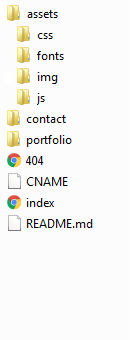
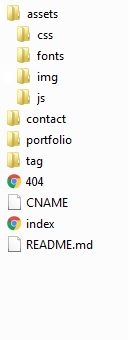
Completed Portfolio webpage writeup (for now)
(For now, eventually have to come up with an ending image but not sure
what to do for now)

Removed some old files.

Changed region(s): [[0.0308, 0.4412, 0.7385, 0.7647], [0.1538, 0.7059, 0.7385, 0.7353]]

diff --git a/_portfolio/portfolio-webpage.html b/_portfolio/portfolio-webpage.html
@@ -22,11 +22,13 @@ abstract: "This projected aimed at creating a responsive webpage which hosts inf
 	<li>Project write-up pages which detail the purpose and process
 	<li>Allow reader to get a professional but personal feel for who I am
 	<li>Improve upon the file system I used in a previous trial-run project
-</ul>"
+</ul>
+
+Before beginning this project, I had no experience with SASS, Jekyll, and Liquid; however, each were heavily utilized throughout the webpage and now I feel great confidence using each of these."
 
 end: | 
  I feel immensely proud of the outcome for this project. The webpage is sleek and quick, while being fully responsive. The file system which Jekyll enables was perfect for this project and will allow for easy additions and modifications in the future. <br><br>
- One thing I’d do for my next project is use something like SAMPLE - where you can create a job and tasks and overall keep track of progress. While I wasn’t having problems implementing every design aspect, it would have been nice to have a place which tracks all of my progress, bugs, and list what I am to do next. With a larger project, a simple "to do" word document will not be enough.<br><br>
+ One thing I’d do for my next project is use something like SAMPLE - where you can create a job and tasks and overall keep track of progress. While I wasn’t having problems implementing every design aspect, it would have been nice to have a place which tracks all of my progress, bugs, and list what I am to do next. With a larger project, a simple to-do word document will not be sufficient.<br><br>
  <a href="https://github.com/schlesigerjess/JessicaSchlesiger.github.io" alt="{{ link.icon }}" target="_blank" rel="noopener"><b class="icon-github"></b> See project at Github.</a>
 
 
@@ -40,8 +42,7 @@ In addition, I set out to improve upon the mistakes previously made. The most pr
 "Jekyll is a simple, blog-aware, static site generator perfect for personal, project, or organization sites. Think of it like a file-based CMS, without all the complexity. Jekyll takes your content, renders Markdown and Liquid templates, and spits out a complete, static website ready to be served by Apache, Nginx or another web server. Jekyll is the engine behind GitHub Pages, which you can use to host sites right from your GitHub repositories"
 </div><br>
 
-<p>It took a couple of days of hammering through examples and trial-and-error processes, but by the end I had a comprehensive understanding of the file system, variables, imports, and site generation. This system is fantastic and enabled this webpage's file system to be less manual and better organized.<br><br></p>
-	
+<p>It took a couple of days of hammering through examples and trial-and-error processes, but by the end I had a comprehensive understanding of the file system, variables, imports, and site generation. This system is fantastic and enabled this webpage's file system to be less manual and better organized.</p>
 
 <div class="img-wrap full">
 	<div class="img-center">
@@ -54,6 +55,42 @@ In addition, I set out to improve upon the mistakes previously made. The most pr
 	
 Before coding anything, a well thought-out design must be in place. This reduces the time spent adjusting code and leads to overall better structured source code. While the end result may diverge from the original design, the basic design and structure aids in predicting future functionality needs between pages. See the initial design below.</p>
 
-<br><br>img<br><br>
+<div class="img-wrap full">
+	<div class="img-center">
+		<img width="100%" style="max-width:800px" src="{{ site.baseurl }}/assets/img/project/{{ page.projectFolder }}/originalDesign.png" alt="First Design">
+	</div>
+</div>
 
-<p>Multiple small adjustments were made to the design since starting the project. Most of these adjustments were suggestions from one of my professors, Dr. Armstrong. Her feedback was invaluable and resulted in multiple small adjustments of the overall project.</p>
+<p>Multiple small adjustments were made to the design since starting the project such as: adding a logo, removing personal image, swapping the order of Skill Sets and Sample Projects, etc. All of these small adjustments lead to a more visually clean and inciting experience for the user. Most of these adjustments were suggestions from one of my professors, Dr. Armstrong. Her feedback was invaluable.<p>
+
+<div class="img-wrap full">
+	<div class="img-center">
+		<img width="100%" style="max-width:800px" src="{{ site.baseurl }}/assets/img/project/{{ page.projectFolder }}/finishedPage.png" alt="First Design">
+	</div>
+</div>
+	
+<p>There are a few big-ticket features with this webpage. First being the use of Liquid headers. These liquid headers a reduce need for repeated code, while still sharing certain layouts, variables, etc in common with other pages. For example, project writeup pages, like this one, share the following Liquid header. I have added comments for clarity. </p>
+	
+{% highlight c %}
+---
+layout: project
+title: 
+projectFolder: 
+dated:    	// optional
+tags: 
+description:	// project's thumbnail text
+img: 		// project's thumbnail and abstract image 
+abstract: 
+end: 		// if there is no ending image
+end-left:	// used for text if there is an ending image
+end-right:	// used for img 
+---
+{% endhighlight %}
+
+<p>Following this Liquid header is the page's main body content - what you're reading through right now. This allows the rest of the HTML to sit in a layout HTML file titled <i>project.html</i> which uses the Liquid variables given here to build the page. This greatly reduces the need to repeat snippets of code, such as the div declaration. One adjustment to the <i>project.html</i> will automatically be reflected on all the pages that use the layout, which allows for speedy reformatting when needed.<br><br>
+	
+This is not the only used of Liquid for this webpage. Liquid is also used to generate the tag system used. Should one of the tags listed at the beginning of this page be clicked, it will bring the user to a page that lists all projects that contain that tag. In addition, on the homepage under Skill Sets the "See example" text will bring the user to the tag page. Liquid is used to gather all the pages listed with the desired tag, and thus eliminates the need to manually fill and update every tag page available.<br><br>
+
+Liquid was an easy language to learn, and offers many complex behaviors that reduces a creator's manual work.<br><br>
+ </p>
+

diff --git a/_layouts/tag.html b/_layouts/tag.html
@@ -2,14 +2,12 @@
 layout: default
 ---
 <div class="tag-page-bar">
-<div class="tag-page container">
-<h1>Projects with tag: {{ page.tag }}</h1>
-
- {% for project in site.portfolio %}
-    {% if project.tags contains page.tag %}
-    
-					{% include projectContainer.html %}
-    {% endif %}
-  {% endfor %}
-
-</div></div>
+	<div class="tag-page container">
+		<h1>Projects with tag: {{ page.tag }}</h1>
+		{% for project in site.portfolio %}
+			{% if project.tags contains page.tag %}
+				{% include projectContainer.html %}
+			{% endif %}
+		{% endfor %}
+	</div>
+</div>
